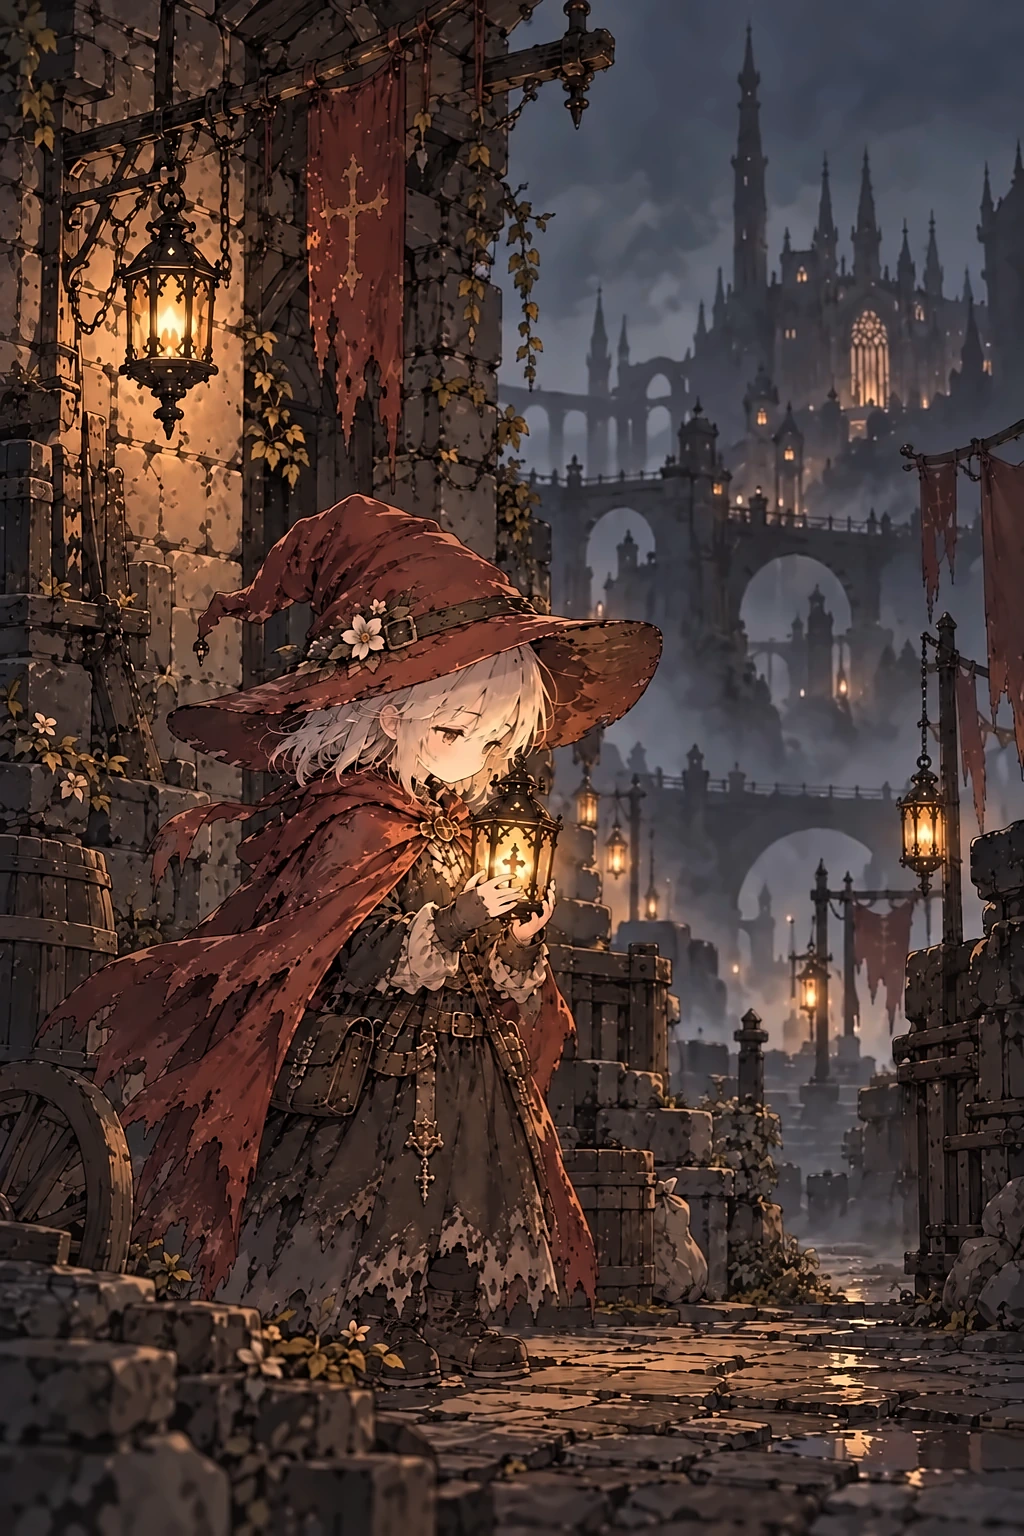
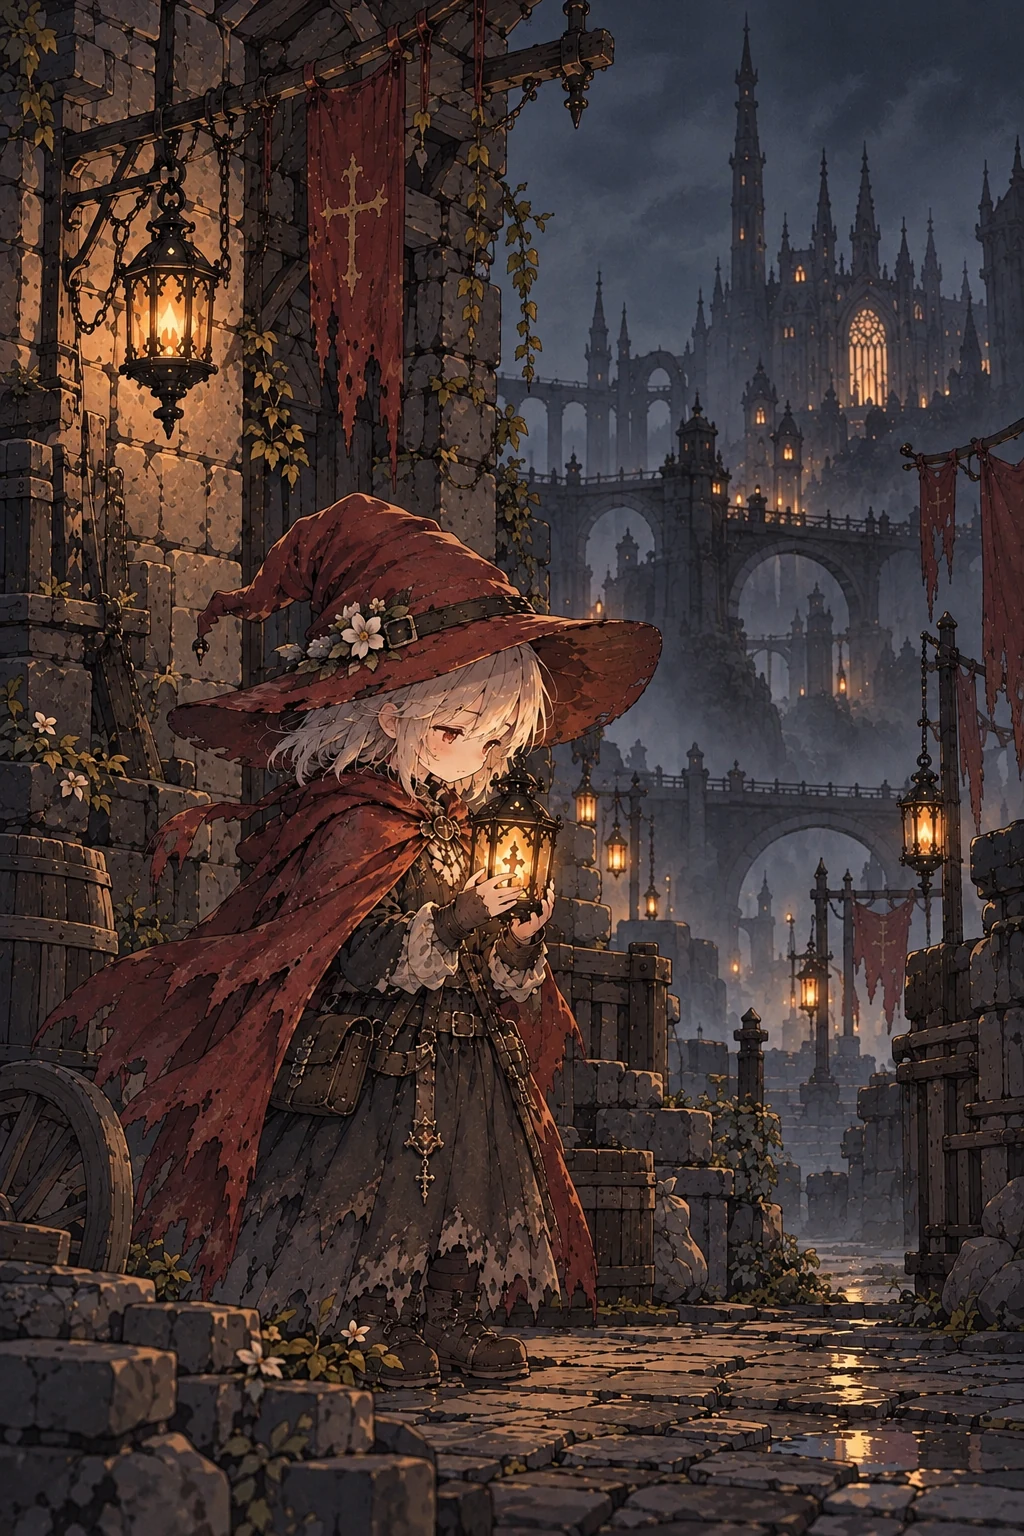
Use the redrawn high-quality Emma illustration for the opening
The supplied redraw has clean line work and no compression noise. It
frames Emma full-length against the night city instead of a close-up,
and fits the portrait, small-phone and landscape dialogue crops as is.

Claude-Session: https://claude.ai/code/session_01Ban8qSapqFGLPfvpcUFGLU

diff --git a/akatsuki.html b/akatsuki.html
@@ -3,7 +3,7 @@
 <section id="controls" hidden aria-label="戦闘操作"><div class="move" aria-label="移動。左右に指を滑らせると向きが変わります"><button data-dir="left" aria-label="左に移動" tabindex="-1">‹</button><button data-dir="right" aria-label="右に移動" tabindex="-1">›</button></div><div class="actions"><button data-tap="dodge" class="secondary dodge">回避</button><button data-hold="magic" class="magic"><span id="magic-name">灯火弾</span><small id="magic-cost">灯火 20</small></button><button data-tap="jump" class="secondary jump">跳ぶ</button><button data-hold="attack" class="attack">斬る</button></div></section>
 <footer><span id="footer-note">灯りが尽きても、歩くことはできる。</span><span>一編の、夜の物語</span></footer></main>
 <div id="screen" class="screen"><div class="title-art"></div><section class="title-panel"><p class="eyebrow">A DARK FAIRY TALE</p><p class="title-small">夜明けに、</p><h1>わたしを<br>燃やして<span>。</span></h1><div class="rule"></div><p class="tagline">世界を救った。<br>弟の名前が、思い出せない。</p><button id="start" class="primary" disabled>灯りを準備しています…</button><button id="continue" class="outline" hidden>旅の続きを開く</button><p id="load-note" class="fine">短編アクション / オートセーブ / 音声なし<br>喪失と死を扱う物語です。</p><button id="title-story" class="title-replay" disabled>冒頭の絵と物語を見る</button></section></div>
-<dialog id="dialogue" aria-label="物語の会話"><div id="story-illustration"><img id="event-art" src="akatsuki-emma-lantern.webp?v=2" width="1024" height="1536" alt="夜の石畳の街で、弟の声がするランタンを胸元に抱くエマ" decoding="async" fetchpriority="low"></div><button id="art-back" class="outline" hidden>会話に戻る</button><div class="dialogue-content"><div class="dialogue-scene"><canvas id="portrait" width="240" height="240" aria-hidden="true"></canvas><div><p class="eyebrow" id="scene-label"></p><h2 id="speaker"></h2></div><span id="page-count"></span></div><p id="line"></p><div id="choices"></div><div class="scene-actions"><button id="view-art" class="outline" hidden>絵を見る</button><button id="next" class="primary">次へ <span>→</span></button></div></div></dialog>
+<dialog id="dialogue" aria-label="物語の会話"><div id="story-illustration"><img id="event-art" src="akatsuki-emma-lantern.webp?v=3" width="1024" height="1536" alt="夜の石畳の街で、弟の声がするランタンを胸元に抱くエマ" decoding="async" fetchpriority="low"></div><button id="art-back" class="outline" hidden>会話に戻る</button><div class="dialogue-content"><div class="dialogue-scene"><canvas id="portrait" width="240" height="240" aria-hidden="true"></canvas><div><p class="eyebrow" id="scene-label"></p><h2 id="speaker"></h2></div><span id="page-count"></span></div><p id="line"></p><div id="choices"></div><div class="scene-actions"><button id="view-art" class="outline" hidden>絵を見る</button><button id="next" class="primary">次へ <span>→</span></button></div></div></dialog>
 <dialog id="journal"><div class="journal-top"><div><p class="eyebrow">THE LANTERN KEEPER</p><h2>灯守の手記</h2></div><button id="journal-close" class="outline">戻る</button></div><p class="paused-note">一時停止中</p><section class="recap-section"><h3>いまの目的</h3><p id="story-purpose"></p></section><section class="memory-card" aria-labelledby="memory-title"><h3 id="memory-title">記憶の灯</h3><ul id="memory-list"></ul><p id="journal-text"></p></section><details class="controls-help"><summary>敵と呪文の手引き</summary><div class="instructions"><p>煤のコウモリ：金の軌道を見て、急降下を回避。鬼火で追いかけられます。</p><p>墓守の盾兵：正面はダメージ軽減。三連撃の最後か「灯の鎌」で盾を崩せます。</p><p>灰の詠み手：足元3か所を予告して呪いを放ちます。印から離れるか、直前にジャンプ・回避。</p><p>呪文はLv.2で灯の鎌、Lv.4で鬼火、Lv.6で燭台を自動習得。「育成 → 呪文」で装備します。灯のスキルの貫通・双灯は灯火弾と鬼火に有効です。</p></div></details><div class="detour-card"><p class="eyebrow">寄り道 · 任意の強敵</p><p id="trial-description"></p><button id="trial-enter" class="outline"></button></div><section class="recap-section"><details open><summary>ここまでの話</summary><p id="story-recap"></p></details><details><summary>登場人物</summary><dl id="story-people"></dl></details><details><summary>灯火と記憶の違い</summary><p class="lore-note">灯術に使う「灯火」は、敵を鎮めると戻ります。物語で渡す「記憶」は戻りません。記憶を失うのは、選択肢で手放すことを選んだときだけです。レベルやスキルの成長とも別です。</p></details></section><fieldset class="control-style"><legend>スマホの操作</legend><label><input type="radio" name="control-style" value="gesture">タップとスワイプ<small>おすすめ・画面全体で遊ぶ</small></label><label><input type="radio" name="control-style" value="buttons">ボタン<small>決まった位置のボタンで遊ぶ</small></label></fieldset><details class="controls-help"><summary>操作を確認する</summary><div class="instructions"><b>操作</b><p>左右で移動。斬る長押しで三連撃。魔法ボタンは装備した呪文を使います。消費灯火はボタンに表示。金の予告を見て回避、地を走る攻撃はジャンプで避ける。</p><p>PC：A / D・左右キーで移動、J / Zで斬る、K / Xで回避、Spaceで跳ぶ、L / Cで呪文。</p><p>敵を鎮めると灯火が戻ります。死んでも失った記憶は増えず、同じ章から再挑戦できます。</p></div></details><button id="resume" class="primary">旅に戻る</button><label for="review-chapter" class="review-label">会話を振り返る（育成・記録は変わりません）</label><select id="review-chapter" aria-label="読み返す章"></select><button id="replay" class="outline">選んだ章の会話を読む</button><button id="title" class="outline">タイトルへ</button></dialog>
 <dialog id="growth" aria-labelledby="growth-title"><div class="growth-top"><div><p class="eyebrow">THE ART OF KEEPING A FLAME</p><h2 id="growth-title">灯守の技</h2></div><button id="growth-close" class="outline">戻る</button></div><div class="level-card"><strong id="growth-level"></strong><span id="growth-xp"></span><meter id="growth-meter" min="0" max="30" value="0" aria-label="経験値"></meter><p id="growth-stats"></p></div><div class="growth-points"><strong id="growth-points"></strong><span>1つ習得するごとに1ポイント</span></div><div class="growth-switch" role="tablist" aria-label="育成の種類"><button id="growth-skills-tab" role="tab" aria-selected="true" aria-controls="skills-pane">スキル</button><button id="growth-spells-tab" role="tab" aria-selected="false" aria-controls="spells-pane">呪文</button></div><section id="skills-pane" role="tabpanel" aria-labelledby="growth-skills-tab"><div class="tree-tabs" role="tablist" aria-label="スキルの系統"><button role="tab" id="tab-blade" aria-controls="tree-panel" aria-selected="true" data-branch="刃">刃 <small>近接と反撃</small></button><button role="tab" id="tab-lamp" aria-controls="tree-panel" aria-selected="false" data-branch="灯">灯 <small>灯術と回収</small></button><button role="tab" id="tab-shadow" aria-controls="tree-panel" aria-selected="false" data-branch="影">影 <small>回避と黒猫</small></button></div><div id="tree-panel" role="tabpanel" aria-labelledby="tab-blade"></div></section><section id="spells-pane" role="tabpanel" aria-labelledby="growth-spells-tab" hidden><p class="spell-help">レベルで自動習得。ポイントや記憶は使いません。装備した1つを戦闘ボタンで使えます。</p><div id="spell-list"></div></section><p id="growth-message" aria-live="polite"></p><button id="respec" class="outline">無料で振り直す</button><button id="growth-done" class="primary">旅に戻る</button><p class="fine">Lv.10で計9ポイント。自由に組み合わせて育てられます。<br>育成はその場で保存。倒した同じ敵から経験値は重複しません。<br>物語で手放す記憶とは別の力です。</p></dialog>
 <dialog id="result"><p class="eyebrow" id="result-label"></p><h2 id="result-title"></h2><p id="result-text"></p><button id="retry" class="primary"></button><button id="result-home" class="outline">タイトルへ</button></dialog>

diff --git a/AKATSUKI.md b/AKATSUKI.md
@@ -267,3 +267,8 @@ progressに任意フィールド `spell` を追加。保存schemaは従来のver
 ## v18：エマの一枚絵のノイズ除去
 
 `akatsuki-emma-lantern.webp` に圧縮由来のブロック状ノイズが焼き込まれており、iPhoneで拡大表示されると帽子や石壁がガビガビに見えた。`tools/clean-akatsuki-illustration.py`（OpenCVのnon-local means、強さ5＋弱いアンシャープ）でノイズだけを減らし、新しい圧縮ノイズが乗らないようWebP品質92で保存（1024×1536、約346KB、以前とほぼ同じ容量）。構図・色・線は変えていない。HTMLの参照に `?v=2` を付けてキャッシュを更新。元の高画質PNGがあれば、それから同じスクリプトを通す方がさらにきれいになる。
+
+
+## v19：エマの一枚絵を描き直し版に差し替え
+
+ユーザーがChatGPTで描き直した高画質版（1024×1536）に差し替えた。圧縮ノイズはなく、線と細部がはっきりしている。前の絵（顔とランタンの寄り）から、石の壁の前で街を背に立つ全身の引きの構図に変わったが、白い髪・赤茶の帽子と花・赤いマント・胸元のランタン・夜の街とアーチ橋という要素は同じ。iPhone縦・320px・横画面の会話表示（`object-fit:cover`、中央54%）で、顔・ランタン・街が収まることを確認したため、表示位置の調整は不要。v18のノイズ除去は不要になった（スクリプトは今後のために残す）。WebP品質88（約345KB、2倍拡大でも元のPNGと見分けがつかない）。参照は `?v=3`。
